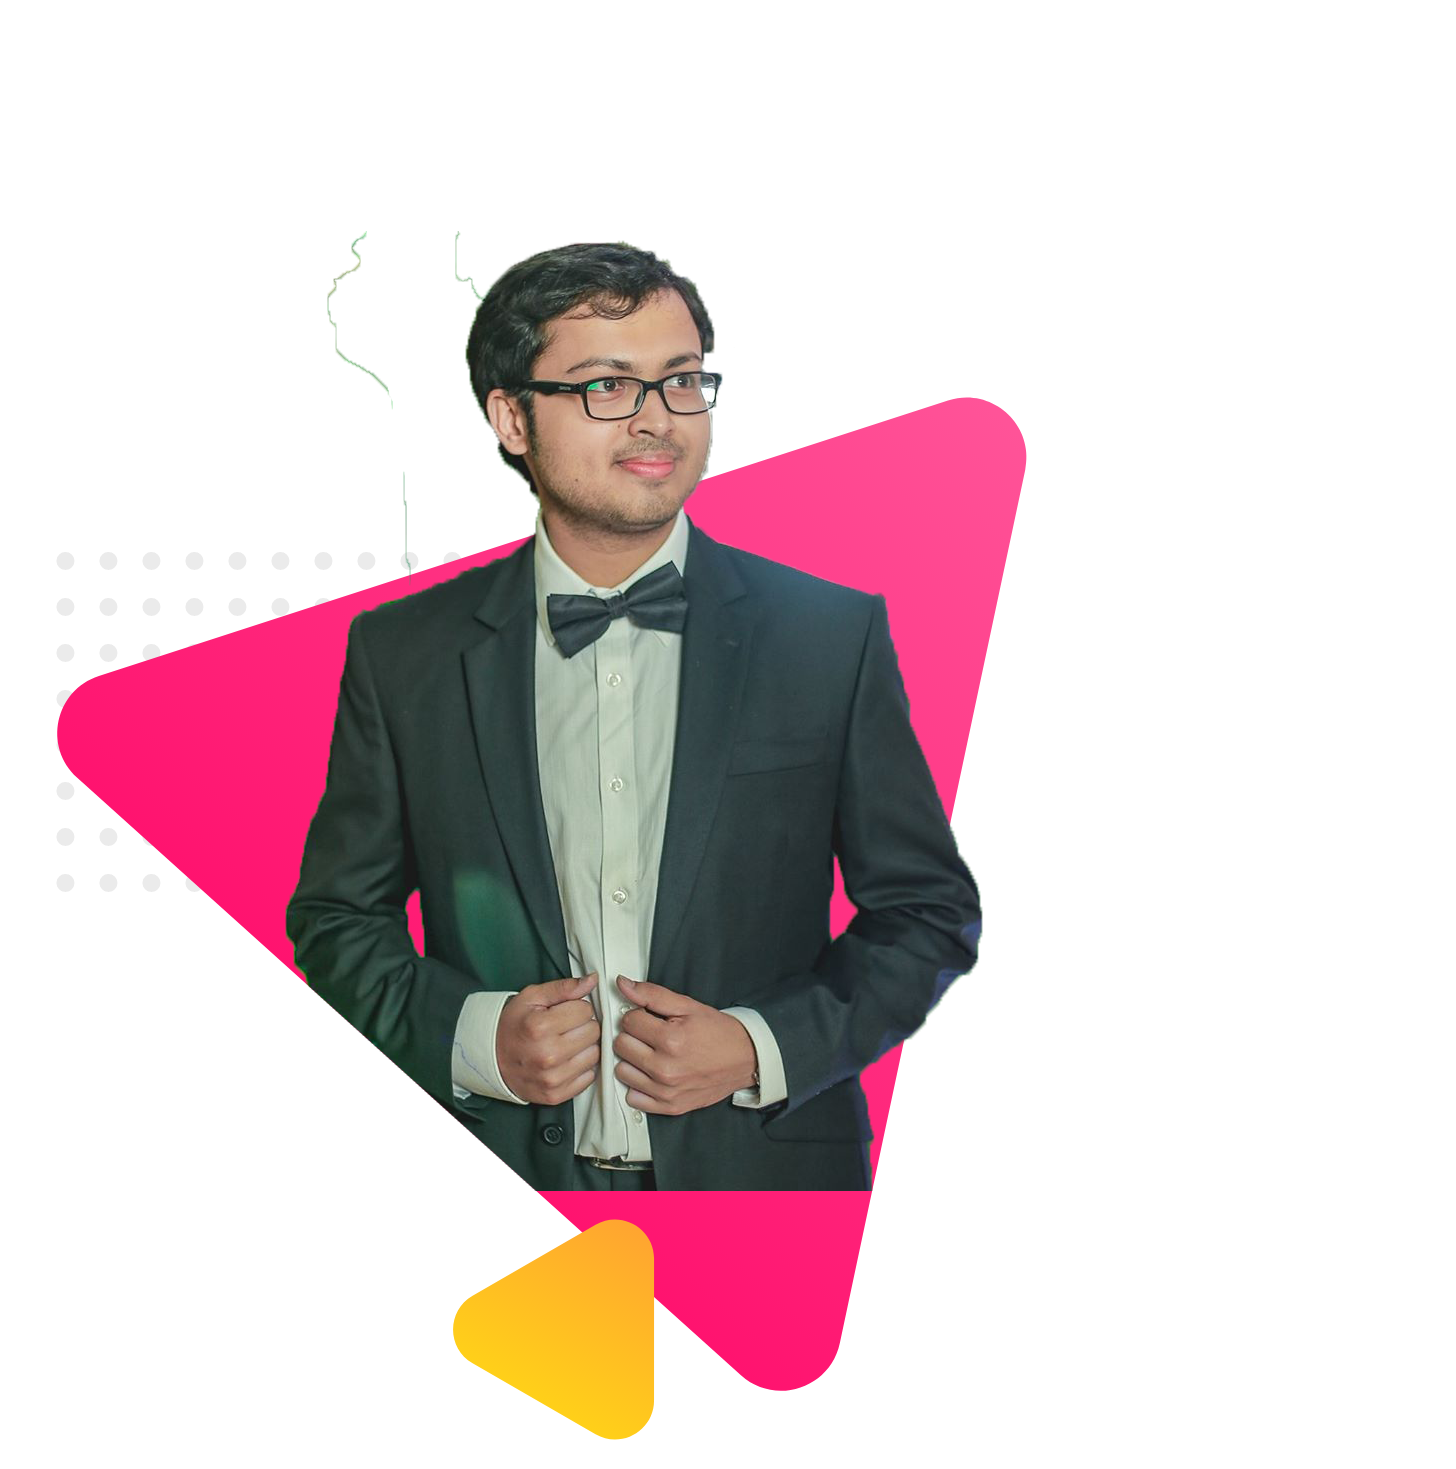
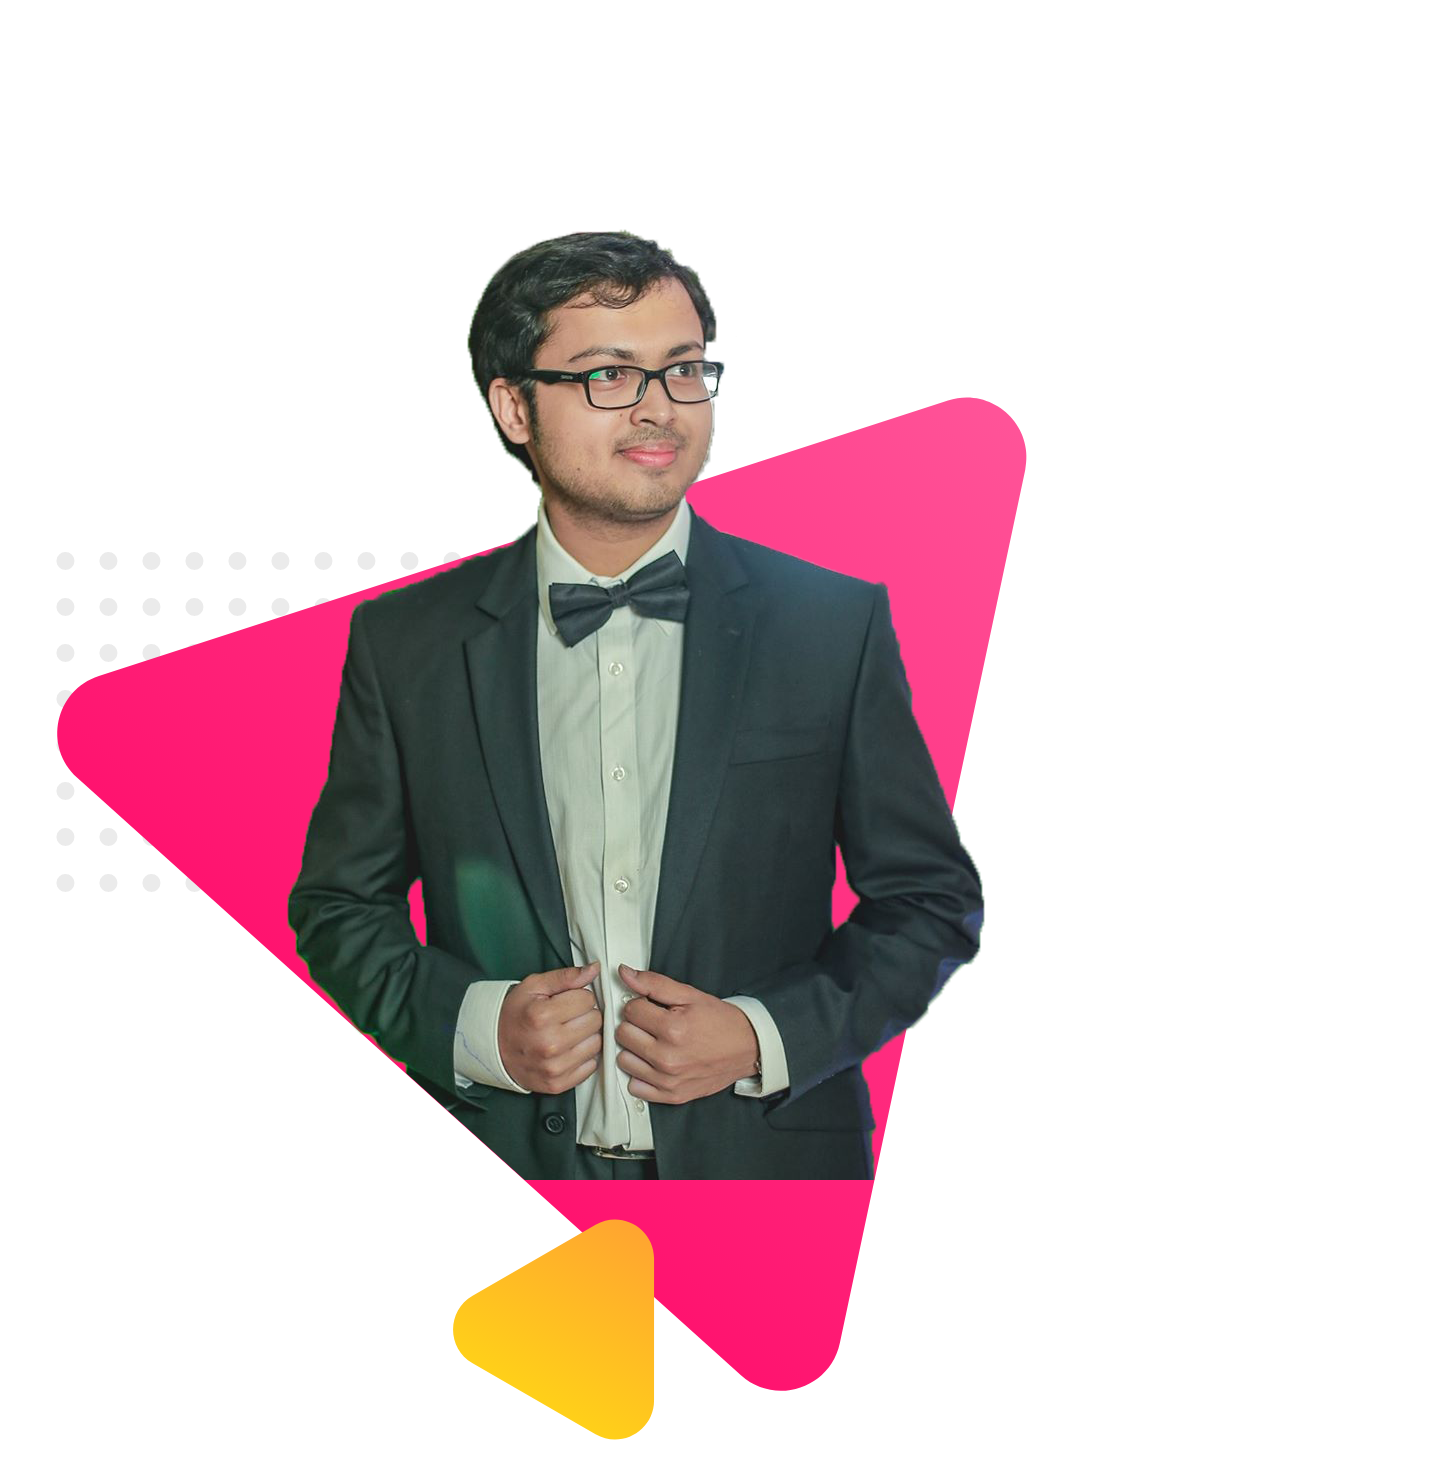
biography section done, changed some things in half-width class to adjust blank spaces

diff --git a/index.html b/index.html
@@ -13,24 +13,35 @@
         <!-- This image is invisible. This has been done to restrict the height of this section to the height of the background image. -->
         <div>
         <!-- This div has been added to restrict the height of this section to the height of the background image. -->    
-            <div id="intro" class="half-width">
+            <div id="intro" class="half-width top-pad">
                 <h1>Hello I'm</h1>
                 <h1 id="name">Preetom Saha Arko</h1>
                 <p>I am currently working as a lecturer in Bangladesh University of Engineering and Technology. I had very little idea about complete web development, so I am doing a course offered by ProgrammingHero.</p>
                 <br>
                 <a class="link-button" target="_blank" href="https://www.linkedin.com/in/preetom-saha-arko-56701597/">HIRE ME</a>
             </div>
-            <div class="half-width">
+            <div class="half-width top-pad">
                 <img src="images/arko.png" alt="">
             </div>
         </div>
         
     </section>
     
-    <section class="biography-area">
-        bla bla
+    <section id="biography" class="area">
+        <img src="images/biography-bg.png" alt="">
+        <div>
+            <div id="img-bio" class="half-width">
+                <img src="images/arko2.png" alt="">
+            </div>
+            <div id="text-bio" class="half-width">
+                <h1>Biography</h1>
+                <p>I graduated from CSE, BUET in 2018. Then I worked as a research assistant in Data Science and Engineering Lab, BUET. Later I worked as a part-time faculty in University of Liberal Arts Bangladesh before joining BUET. Currently I am doing part-time M.Sc. at CSE, BUET.</p>
+                <br>
+                <a class="link-button" target="_blank" href="https://www.linkedin.com/in/preetom-saha-arko-56701597/">DOWNLOAD CV</a>
+            </div>
+        </div>
     </section>
-    <section class="latest-work-area">
+    <section id="latest-work" class="area">
 
     </section>
 </body>

diff --git a/style.css b/style.css
@@ -21,14 +21,23 @@ h1{
     padding-left: 250px;
 }
 
+#img-bio{
+    padding-left: 100px;
+    position:top;
+}
+
+#text-bio{
+    padding-top: 100px;
+}
+
 section{
     /*height:800px;*/
     /*margin-bottom: 150px;*/
-    width:100%;
+    /*width:100%;*/
 }
 
 .half-width{
-    margin-top: 200px;
+    /*margin-top: 200px;*/
     width: 40%;
     float:left;
     
@@ -48,8 +57,17 @@ section{
     font-weight: 700;
 }
 
+.top-pad{
+    padding-top: 200px;
+}
+
 #header{
     background: no-repeat url(images/header-bg.png) 50% / 100%;
+    /*padding-top: 200px;*/
+}
+
+#biography{
+    background: no-repeat url(images/biography-bg.png) 50% / 100%;
 }
 
 .area{
